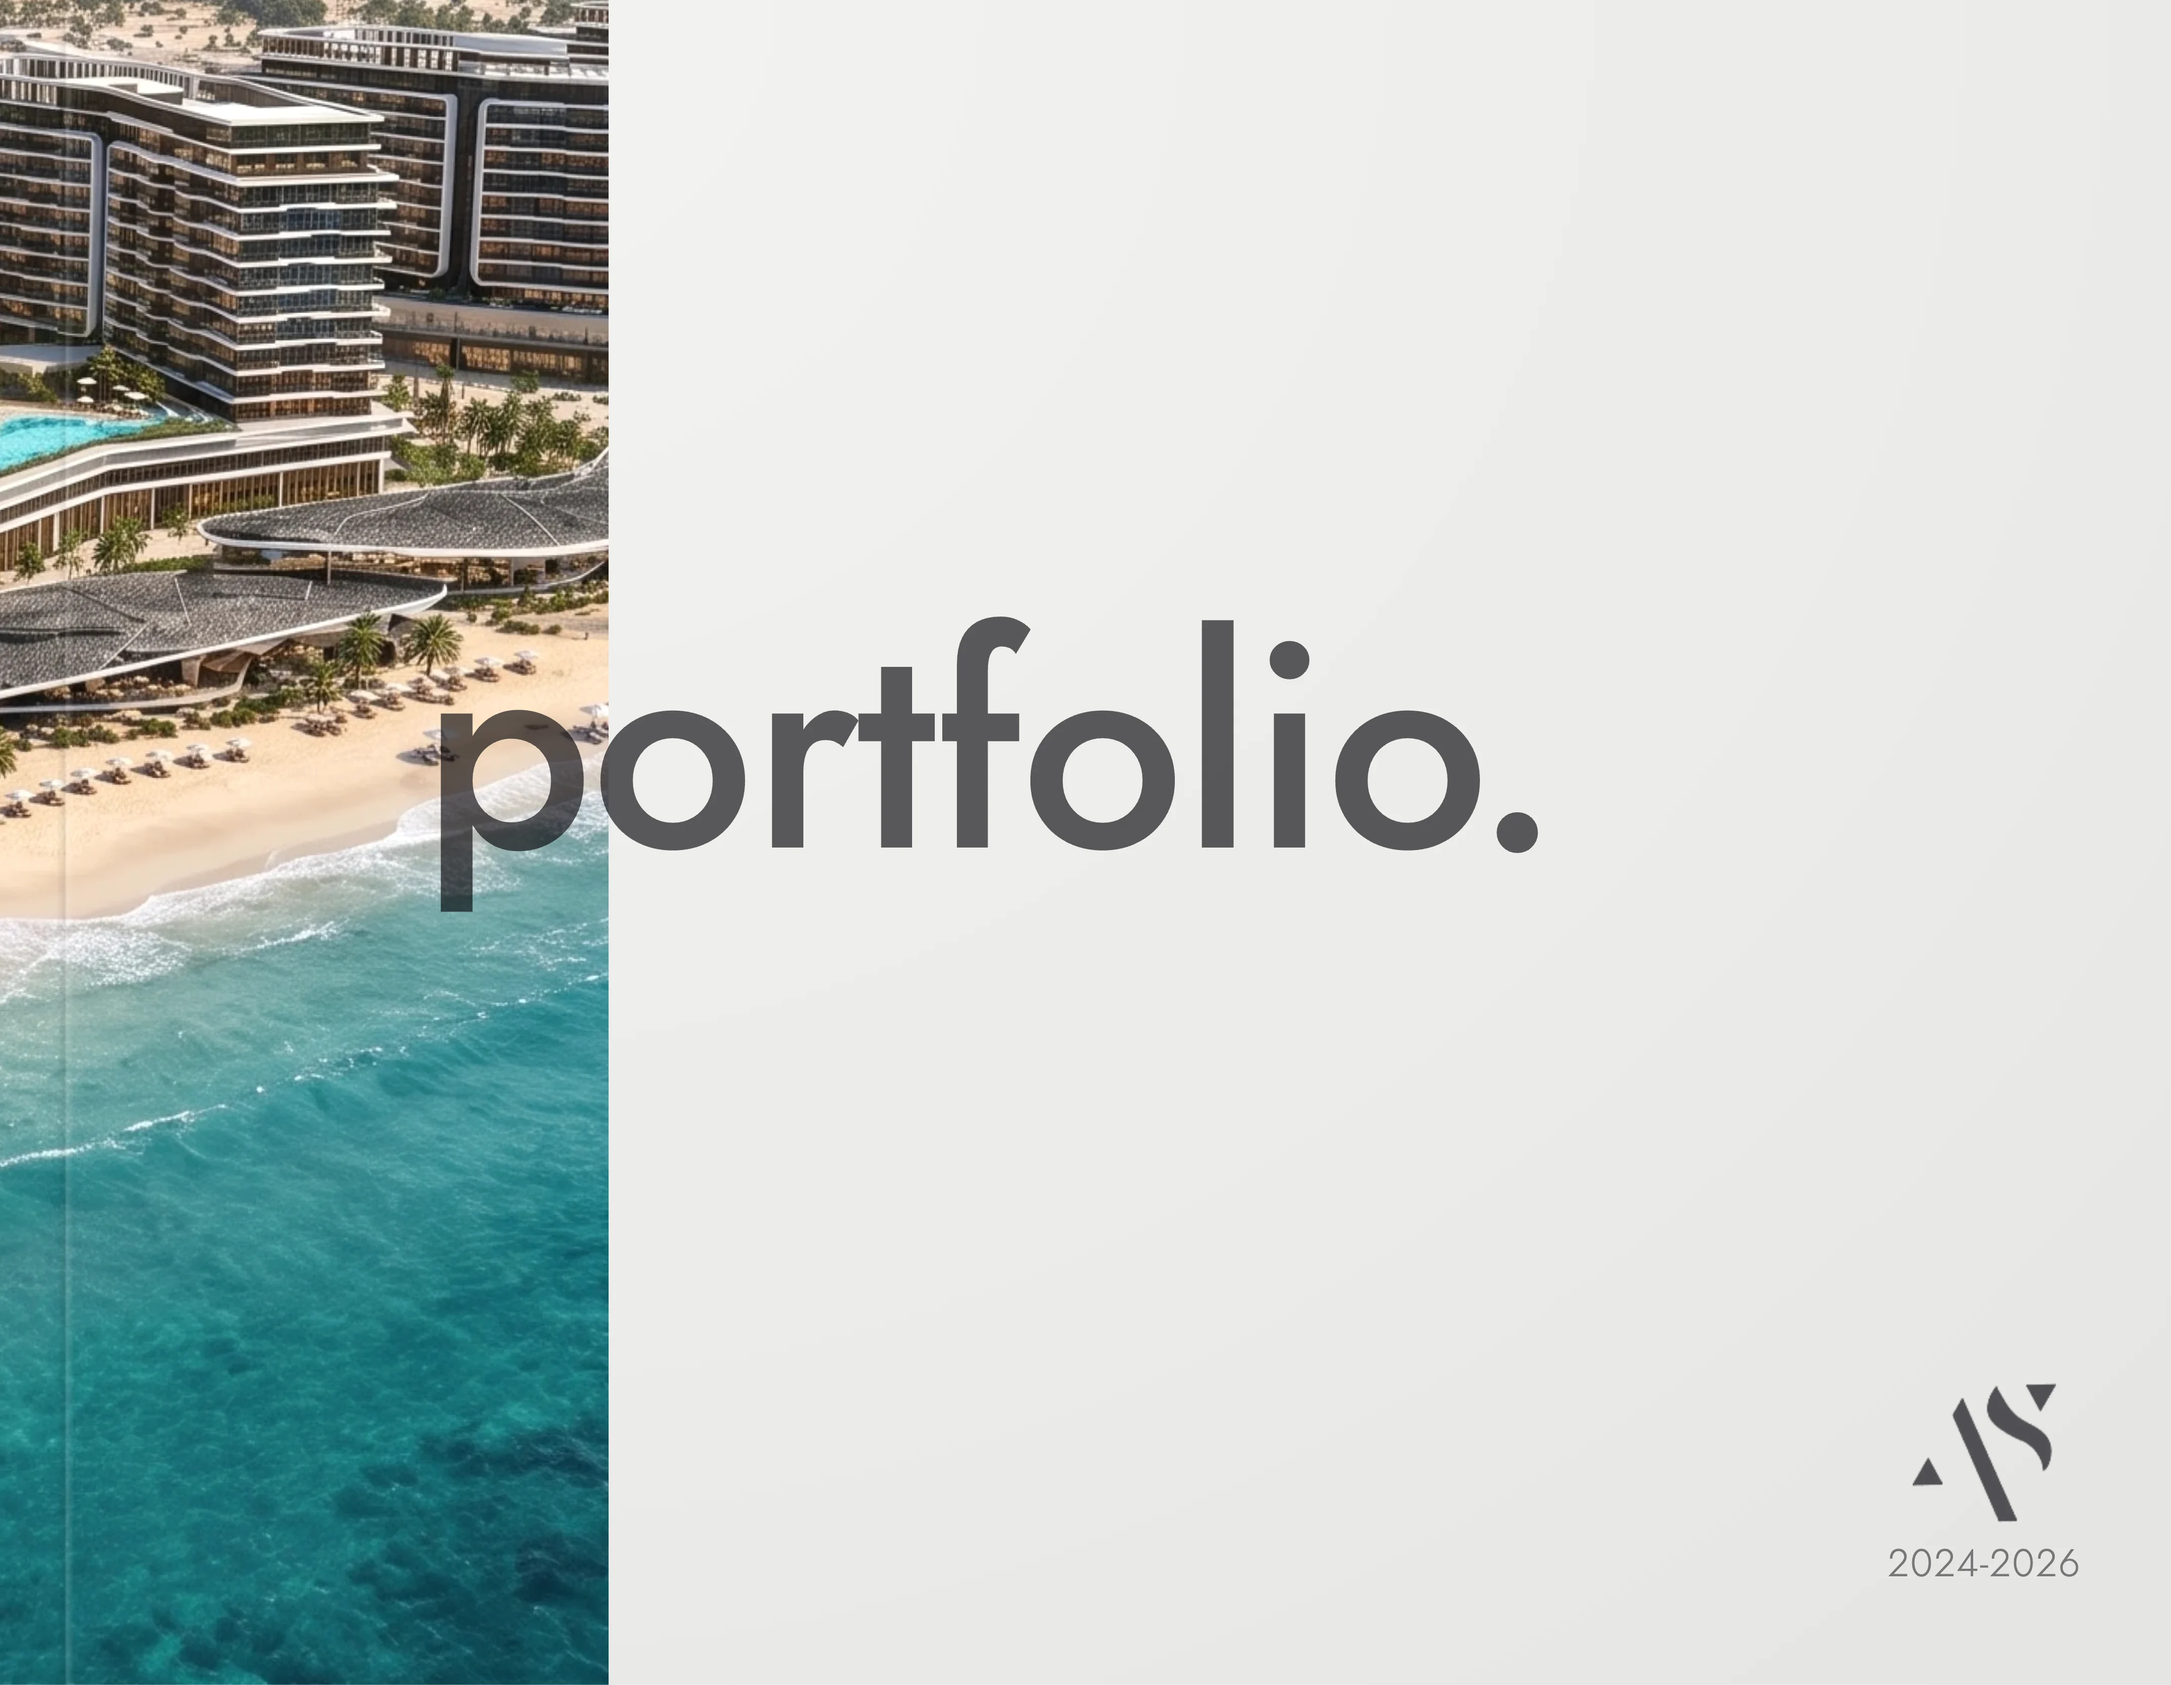
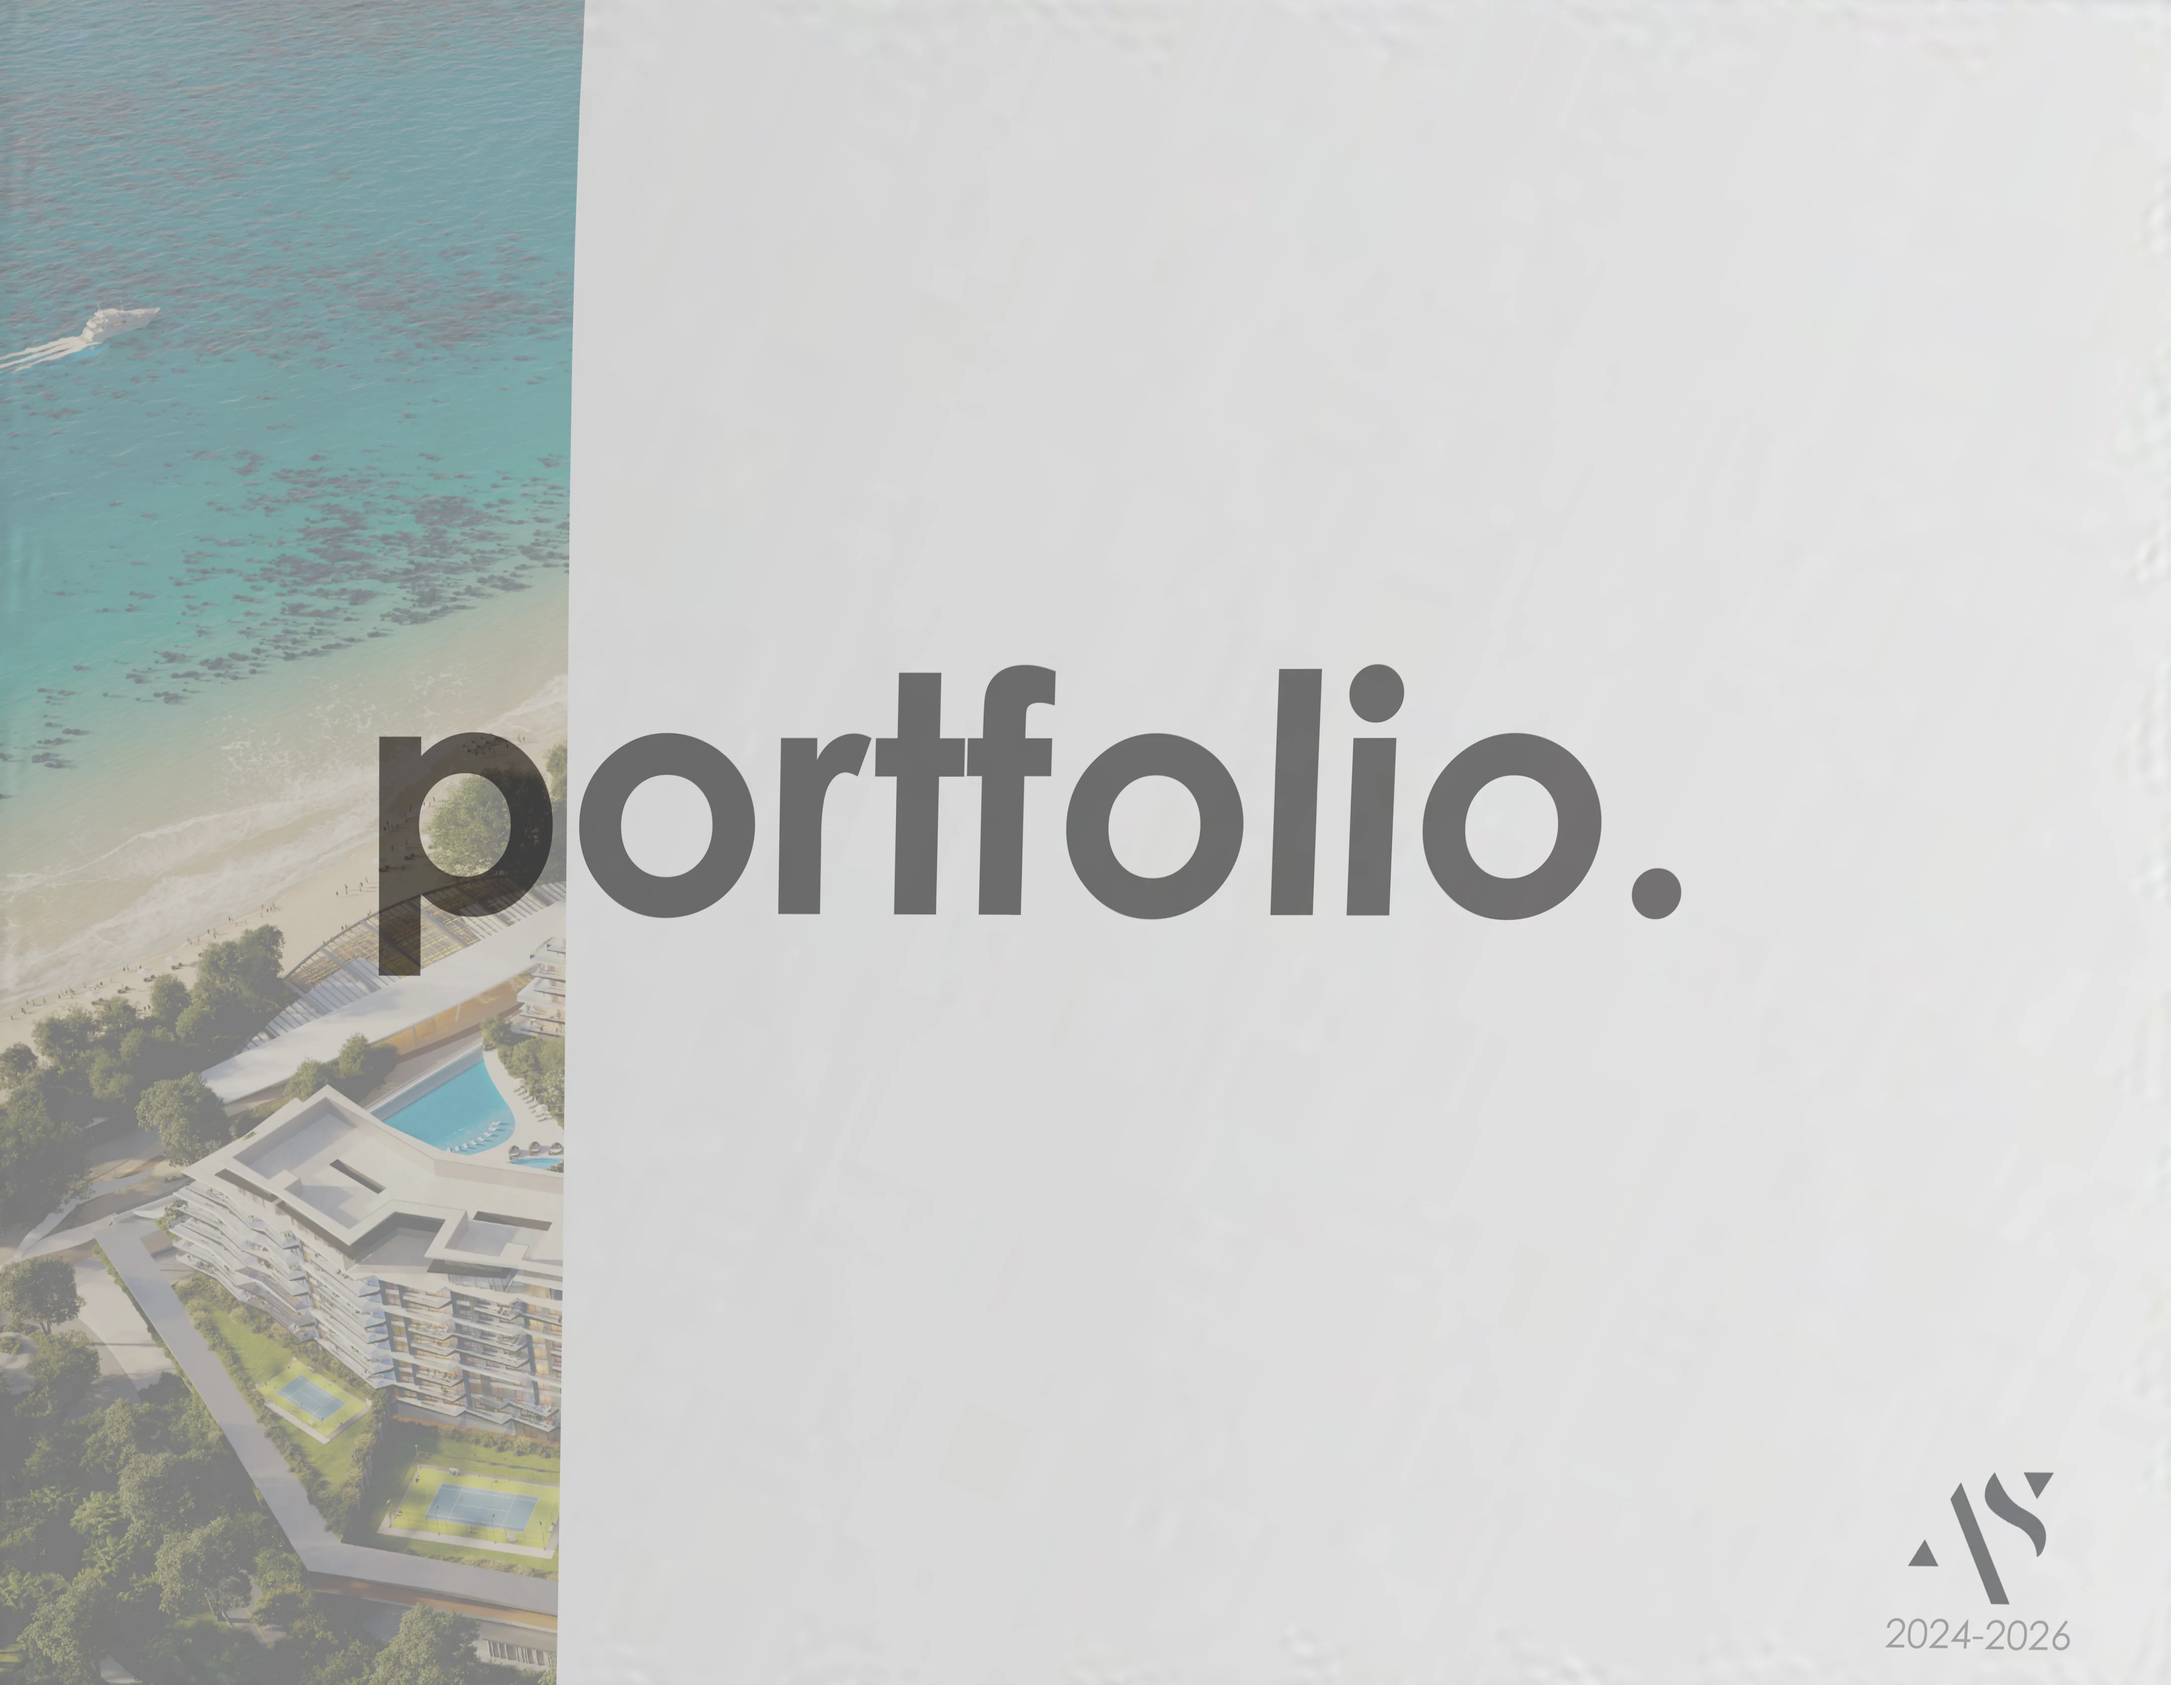
Use the printed cover from the raw PNG as the front cover

diff --git a/js/app.js b/js/app.js
@@ -4,7 +4,7 @@
   const pad = n => String(n).padStart(3, '0');
   // Pages are full-resolution crops of the photos of the printed book (hd), with lighter previews (md).
   // ?v: the crops changed shape; make browsers fetch the new ones rather than reuse cached ones.
-  const src = (n, size) => `img/pages/${size}/p${pad(n)}.webp?v=4`;
+  const src = (n, size) => `img/pages/${size}/p${pad(n)}.webp?v=5`;
 
   // Under the flipbook lies the PDF's photo of the open book at the current spread (1-27), supplying the
   // table, shadows and page edges; the inside pages are exact crops of it, so at rest the two match.
@@ -15,7 +15,7 @@
   const flipEl = document.getElementById('flip');
   const [photoL, photoR] = bookEl.querySelectorAll('.base img');
   let tier = 'sm';
-  const spreadSrc = s => `img/spreads/${tier}/s${pad(s)}.webp?v=4`;
+  const spreadSrc = s => `img/spreads/${tier}/s${pad(s)}.webp?v=5`;
   const wrap = document.getElementById('bookWrap');
   const stage = document.getElementById('portfolio');
   const counter = document.getElementById('counter');
